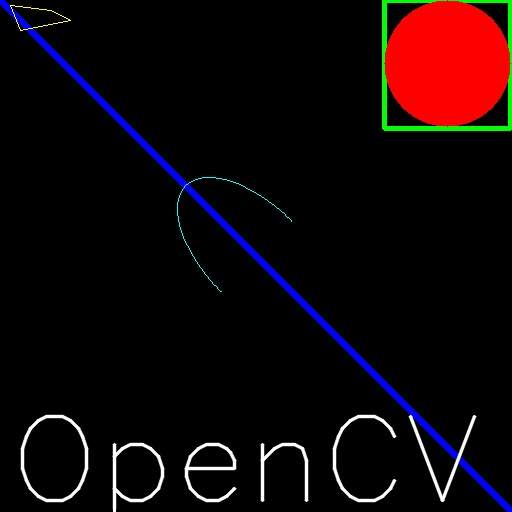
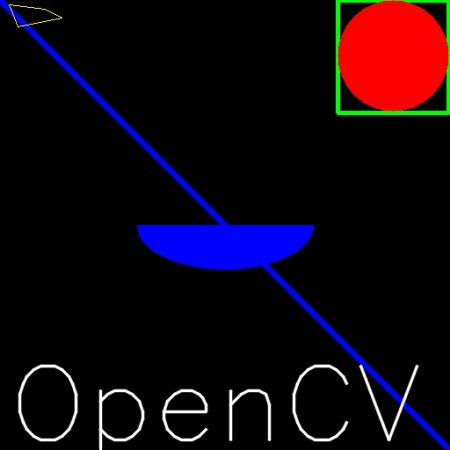
review more

diff --git a/source/py_tutorials/py_gui/py_drawing_functions/py_drawing_functions.rst b/source/py_tutorials/py_gui/py_drawing_functions/py_drawing_functions.rst
@@ -9,7 +9,7 @@ Goal
 .. container:: enumeratevisibleitemswithsquare
 
     * Learn to draw different geometric shapes with OpenCV
-    * You will learn these functions : :ocv:func:`line`, :ocv:func:`circle` , :ocv:func:`rectangle`, :ocv:func:`ellipse`, :ocv:func:`putText` etc.
+    * You will learn these functions : **cv2.line()**, **cv2.circle()** , **cv2.rectangle()**, **cv2.ellipse()**, **cv2.putText()** etc.
     
 Code
 =====
@@ -19,7 +19,7 @@ In all the above functions, you will see some common arguments as given below:
     * img : The image where you want to draw the shapes
     * color : Color of the shape. for BGR, pass it as a tuple, eg: ``(255,0,0)`` for blue. For grayscale, just pass the scalar value.
     * thickness : Thickness of the line or circle etc. If **-1** is passed for closed figures like circles, it will fill the shape. *default thickness = 1*
-    * lineType : Type of line, whether 8-connected, anti-aliased line etc. *By default, it is 8-connected.* ``cv2.CV_AA`` gives anti-aliased line which looks great for curves.
+    * lineType : Type of line, whether 8-connected, anti-aliased line etc. *By default, it is 8-connected.* ``cv2.LINE_AA`` gives anti-aliased line which looks great for curves.
 
 Drawing Line
 -------------
@@ -33,25 +33,30 @@ To draw a line, you need to pass starting and ending coordinates of line. We wil
     img = np.zeros((512,512,3), np.uint8)
     
     # Draw a diagonal blue line with thickness of 5 px
-    cv2.line(img,(0,0),(511,511),(255,0,0),5)
+    img = cv2.line(img,(0,0),(511,511),(255,0,0),5)
 
 Drawing Rectangle
 -------------------
 To draw a rectangle, you need top-left corner and bottom-right corner of rectangle. This time we will draw a green rectangle at the top-right corner of image.
 ::
     
-    cv2.rectangle(img,(384,0),(510,128),(0,255,0),3)
+    img = cv2.rectangle(img,(384,0),(510,128),(0,255,0),3)
     
 Drawing Circle
 ----------------
 To draw a circle, you need its center coordinates and radius. We will draw a circle inside the rectangle drawn above.
 ::
 
-    cv2.circle(img,(447,63), 63, (0,0,255), -1)
+    img = cv2.circle(img,(447,63), 63, (0,0,255), -1)
     
 Drawing Ellipse
 --------------------
-.. Warning:: Some complications, coming soon
+
+To draw the ellipse, we need to pass several arguments. One argument is the center location (x,y). Next argument is axes lengths (major axis length, minor axis length). ``angle`` is the angle of rotation of ellipse in anti-clockwise direction. ``startAngle`` and ``endAngle`` denotes the starting and ending of ellipse arc measured in clockwise direction from major axis. i.e. giving values 0 and 360 gives the full ellipse. For more details, check the documentation of **cv2.ellipse()**. Below example draws a half ellipse at the center of the image.
+::
+
+    img = cv2.ellipse(img,(256,256),(100,50),0,0,180,255,-1) 
+
 
 Drawing Polygon
 ------------------
@@ -60,24 +65,26 @@ To draw a polygon, first you need coordinates of vertices. Make those points int
 
     pts = np.array([[10,5],[20,30],[70,20],[50,10]], np.int32)
     pts = pts.reshape((-1,1,2))
-    cv2.polylines(img,[pts],True,(0,255,255))
+    img = cv2.polylines(img,[pts],True,(0,255,255))
     
 .. Note:: If third argument is ``False``, you will get a polylines joining all the points, not a closed shape.
+
+.. Note:: ``cv2.polylines()`` can be used to draw multiple lines. Just create a list of all the lines you want to draw and pass it to the function. All lines will be drawn individually. It is more better and faster way to draw a group of lines than calling ``cv2.line()`` for each line.
 
 Adding Text to Images:
 ------------------------
 To put texts in images, you need specify following things. 
     * Text data that you want to write
     * Position coordinates of where you want put it (i.e. bottom-left corner where data starts).
-    * Font type (Check :ocv:func:`putText` docs for supported fonts)
+    * Font type (Check **cv2.putText()** docs for supported fonts)
     * Font Scale (specifies the size of font)
-    * regular things like color, thickness, lineType etc. For better look, ``lineType = cv2.CV_AA`` is recommended.
+    * regular things like color, thickness, lineType etc. For better look, ``lineType = cv2.LINE_AA`` is recommended.
     
 We will write **OpenCV** on our image in white color.
 ::
 
     font = cv2.FONT_HERSHEY_SIMPLEX
-    cv2.putText(img,'OpenCV',(10,500), font, 4,(255,255,255),2,cv2.CV_AA)
+    cv2.putText(img,'OpenCV',(10,500), font, 4,(255,255,255),2,cv2.LINE_AA)
 
 Result
 ----------
@@ -86,7 +93,14 @@ So it is time to see the final result of our drawing. As you studied in previous
          .. image:: images/drawing.jpg
               :alt: Drawing Functions in OpenCV
               :align: center 
-              
+
+
+Additional Resources
+========================
+
+1. The angles used in ellipse function is not our circular angles. For more details, visit `this discussion <http://answers.opencv.org/question/14541/angles-in-ellipse-function/>`_.
+
+
 Exercises
------------
+==============
 #. Try to create the logo of OpenCV using drawing functions available in OpenCV

diff --git a/source/py_tutorials/py_gui/py_mouse_handling/py_mouse_handling.rst b/source/py_tutorials/py_gui/py_mouse_handling/py_mouse_handling.rst
@@ -9,14 +9,14 @@ Goal
 .. container:: enumeratevisibleitemswithsquare
     
     * Learn to handle mouse events in OpenCV
-    * You will learn these functions : :ocv:func:`setMouseCallback`
+    * You will learn these functions : **cv2.setMouseCallback()**
     
 Simple Demo
 =============
 
-First we create a simple application which draws a circle on an image wherever we double-click on it.
+Here, we create a simple application which draws a circle on an image wherever we double-click on it.
 
-Here, first we create a mouse callback function which is executed when a mouse event take place. Mouse event can be anything related to mouse like, left-button down, left-button up, left-button double-click etc. It gives us the coordinates (x,y) for every mouse event. With this event and location, we can do whatever we like. To list all available events available, run the following code in Python terminal:
+First we create a mouse callback function which is executed when a mouse event take place. Mouse event can be anything related to mouse like left-button down, left-button up, left-button double-click etc. It gives us the coordinates (x,y) for every mouse event. With this event and location, we can do whatever we like. To list all available events available, run the following code in Python terminal:
 ::
 
     >>> import cv2
@@ -43,12 +43,12 @@ Creating mouse callback function has a specific format which is same everywhere.
         cv2.imshow('image',img)
         if cv2.waitKey(20) & 0xFF == 27:
             break
-    cv2.destroyAllWindows()    
+    cv2.destroyAllWindows()
     
 More Advanced Demo
 ===================
 
-Now we go for much more better application. In this, we draw either rectangles or curves (depending on the mode we select) by dragging the mouse like we do in Paint application. So our mouse callback function has two parts, one to draw rectangle and other to draw the curves. This specific example will be really helpful in creating and understanding some interactive applications like object tracking, image segmentation etc.
+Now we go for much more better application. In this, we draw either rectangles or circles (depending on the mode we select) by dragging the mouse like we do in Paint application. So our mouse callback function has two parts, one to draw rectangle and other to draw the circles. This specific example will be really helpful in creating and understanding some interactive applications like object tracking, image segmentation etc.
 ::
 
     import cv2
@@ -80,7 +80,7 @@ Now we go for much more better application. In this, we draw either rectangles o
             else:
                 cv2.circle(img,(x,y),5,(0,0,255),-1)
                 
-Next we have to bind this mouse callback function to OpenCV window. In the main loop, we should set a keyboard binding for key 'm' to toggle between rectangle and curve.
+Next we have to bind this mouse callback function to OpenCV window. In the main loop, we should set a keyboard binding for key 'm' to toggle between rectangle and circle.
 ::
     
     img = np.zeros((512,512,3), np.uint8)
@@ -97,6 +97,11 @@ Next we have to bind this mouse callback function to OpenCV window. In the main 
             
     cv2.destroyAllWindows() 
     
+
+Additional Resources
+========================
+
+
 Exercises
 ==========
 

diff --git a/source/py_tutorials/py_gui/py_trackbar/py_trackbar.rst b/source/py_tutorials/py_gui/py_trackbar/py_trackbar.rst
@@ -9,14 +9,14 @@ Goal
 .. container:: enumeratevisibleitemswithsquare
 
     * Learn to bind trackbar to OpenCV windows
-    * You will learn these functions : :ocv:func:`getTrackbarPos`, :ocv:func:`createTrackbar`
+    * You will learn these functions : **cv2.getTrackbarPos()**, **cv2.createTrackbar()** etc.
     
 Code Demo
 ==========
 
 Here we will create a simple application which shows the color you specify. You have a window which shows the color and three trackbars to specify each of B,G,R colors. You slide the trackbar and correspondingly window color changes. By default, initial color will be set to Black.
 
-For :ocv:func:`createTrackbar` function, first argument is the trackbar name, second one is the window name it is attached, third argument is the default value, fourth one is the maximum value and fifth one is the callback function which is executed everytime trackbar value changes. The callback function always has a default argument which is the trackbar position. In our case, function does nothing, so we simply pass.
+For cv2.getTrackbarPos() function, first argument is the trackbar name, second one is the window name to which it is attached, third argument is the default value, fourth one is the maximum value and fifth one is the callback function which is executed everytime trackbar value changes. The callback function always has a default argument which is the trackbar position. In our case, function does nothing, so we simply pass.
 
 Another important application of trackbar is to use it as a button or switch. OpenCV, by default, doesn't have button functionality. So you can use trackbar to get such functionality. In our application, we have created one switch in which application works only if switch is ON, otherwise screen is always black.
 ::
@@ -57,14 +57,15 @@ Another important application of trackbar is to use it as a button or switch. Op
         else:
             img[:] = [b,g,r]
         
-    cv2.destroyAllWindows()  
+    cv2.destroyAllWindows()
 
 The screenshot of the application looks like below :
 
-     .. image:: images/trackbar_screenshot.png
+     .. image:: images/trackbar_screenshot.jpg
               :alt: Screenshot of Image with Trackbars
               :align: center 
               
 Exercises
 ===========
+
 #. Create a Paint application with adjustable colors and brush radius using trackbars. For drawing, refer previous tutorial on mouse handling.

diff --git a/source/py_tutorials/py_core/py_basic_ops/py_basic_ops.rst b/source/py_tutorials/py_core/py_basic_ops/py_basic_ops.rst
@@ -40,7 +40,7 @@ You can access a pixel value by its row and column coordinates. For BGR image, i
     >>> print blue
     157
     
-You can modify the pixel values also the same way.
+You can modify the pixel values the same way.
 ::
 
     >>> img[100,100] = [255,255,255]
@@ -52,11 +52,12 @@ You can modify the pixel values also the same way.
 .. note:: Above mentioned method is normally used for selecting a region of array, say first 5 rows and last 3 columns like that. For individual pixel access, Numpy array methods, ``array.item()`` and ``array.itemset()`` is considered to be more better. But it always returns a scalar. So if you want to access all B,G,R values, you need to call ``array.item()`` separately for all.
 
 Better pixel accessing and editing method :
-::
-    
+
+.. code-block:: python
+
     # accessing RED value
     >>> img.item(10,10,2)
-    59  
+    59
     
     # modifying RED value
     >>> img.itemset((10,10,2),100)
@@ -93,7 +94,7 @@ Image datatype is obtained by ``img.dtype``:
 Image ROI
 ===========
 
-Sometimes, you will have to play with certain region of images. For eg, eye detection in images, first face detection is done all over the image and when face is obtained, we select the face region alone and search for eyes inside it instead of searching whole image. It improves accuracy (because eyes are always on faces :D ) and performance (we search for a small area)
+Sometimes, you will have to play with certain region of images. For eye detection in images, first face detection is done all over the image and when face is obtained, we select the face region alone and search for eyes inside it instead of searching whole image. It improves accuracy (because eyes are always on faces :D ) and performance (because we search for a small area)
 
 ROI is again obtained using Numpy indexing. Here I am selecting the ball and copying it to another region in the image:
 ::

diff --git a/source/py_tutorials/py_core/py_table_of_contents_core/py_table_of_contents_core.rst b/source/py_tutorials/py_core/py_table_of_contents_core/py_table_of_contents_core.rst
@@ -3,7 +3,6 @@
 Core Operations
 -----------------------------------------------------------
 
-Here, you will learn some basic operations on image. As mentioned in Introduction, a good knowledge of Numpy is recommended for writing and understanding better codes in OpenCV-Python. 
 
 *  :ref:`Basic_Ops`
 
@@ -25,7 +24,7 @@ Here, you will learn some basic operations on image. As mentioned in Introductio
   .. cssclass:: toctableopencv
 
   =========== ======================================================
-  |core_2|     Perform arithmetic operations on images             
+  |core_2|     Perform arithmetic operations on images
 
   =========== ======================================================
 
@@ -39,7 +38,7 @@ Here, you will learn some basic operations on image. As mentioned in Introductio
   .. cssclass:: toctableopencv
 
   =========== ======================================================
-  |core_4|     Getting answer is important. But getting it in fastest way is more important. Learn to check the speed of your code, optimize the code etc. 
+  |core_4|     Getting a solution is important. But getting it in the fastest way is more important. Learn to check the speed of your code, optimize the code etc. 
 
   =========== ======================================================
 

diff --git a/source/py_tutorials/py_core/py_image_arithmetics/py_image_arithmetics.rst b/source/py_tutorials/py_core/py_image_arithmetics/py_image_arithmetics.rst
@@ -7,14 +7,14 @@ Goal
 =====
 
     * Learn several arithmetic operations on images like addition, subtraction, bitwise operations etc.
-    * You will learn these functions : :ocv:pyfunction:`cv2.add`, :ocv:pyfunction:`addWeighted`, :ocv:pyfunction:`addWeighted` etc.
+    * You will learn these functions : **cv2.add()**, **cv2.addWeighted()** etc.
 
 Image Addition
 ================
 
 You can add two images by OpenCV function, ``cv2.add()`` or simply by numpy operation, ``res = img1 + img2``. Both images should be of same depth and type, or second image can just be a scalar value.
 
-.. note:: But there is a difference between OpenCV addition and Numpy addition. OpenCV addition is a saturated operation while Numpy addition is a modulo operation.
+.. note:: There is a difference between OpenCV addition and Numpy addition. OpenCV addition is a saturated operation while Numpy addition is a modulo operation.
 
 For example, consider below sample:
 ::
